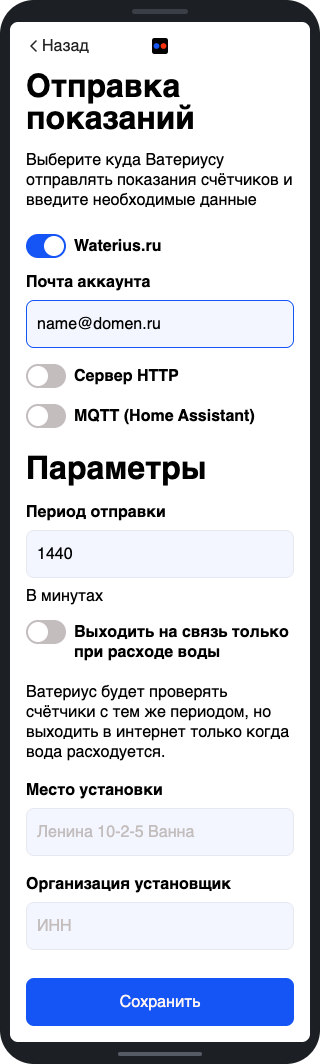
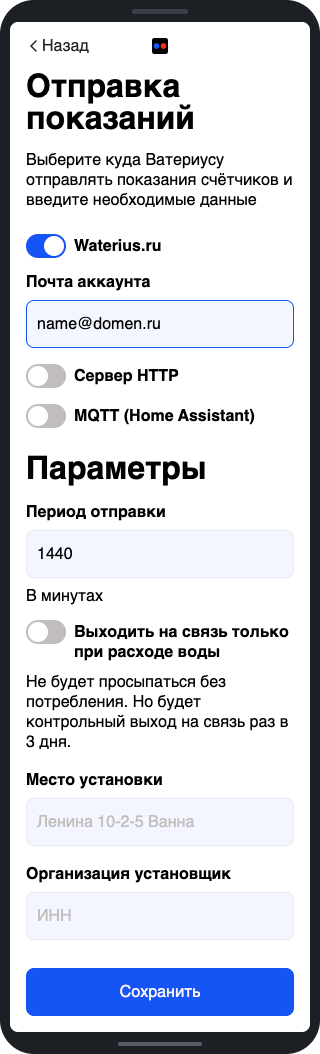
Портал: короче пояснение к тумблеру «только при расходе»
Прежний текст не говорил про контрольный выход на связь раз в 3 суток,
а пояснение стояло далеко от тумблера и читалось отдельно от него.

diff --git a/ESP8266/data/setup_send.html b/ESP8266/data/setup_send.html
@@ -118,9 +118,7 @@
                                 <input type="checkbox" name="send_on_consumption" id="send_on_consumption" onclick="checkboxToggle(this)" %send_on_consumption%>
                                 <label for="send_on_consumption">Выходить на связь только при расходе воды</label>
                             </div>
-                            <div class="f-row">
-                                <p class="text">Ватериус будет проверять счётчики с тем же периодом, но выходить в интернет только когда вода расходуется.</p>
-                            </div>
+                            <p class="text mt10">Не будет просыпаться без потребления. Но будет контрольный выход на связь раз в 3 дня.</p>
                             <div class="f-row">
                                 <label for="place">Место установки</label>
                                 <input id="place" name="place" placeholder="Ленина 10-2-5 Ванна" value="%place%" maxlength="19">
